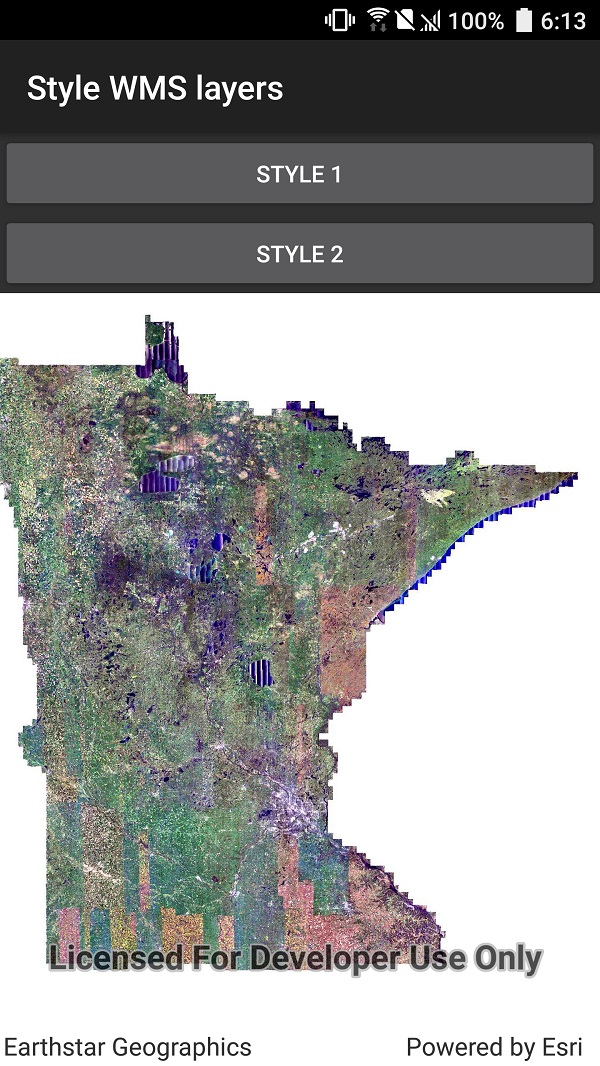
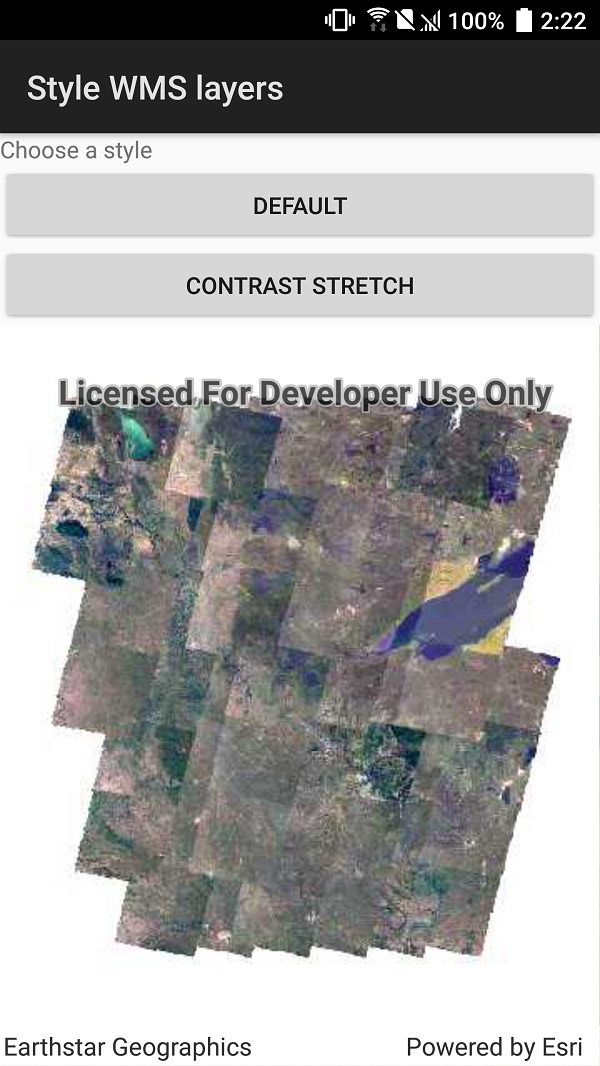
Update Style WMS layer to follow new design, use https

diff --git a/src/UWP/ArcGISRuntime.UWP.Viewer/Samples/Layers/StyleWmsLayer/StyleWmsLayer.xaml b/src/UWP/ArcGISRuntime.UWP.Viewer/Samples/Layers/StyleWmsLayer/StyleWmsLayer.xaml
@@ -21,12 +21,12 @@
                            HorizontalTextAlignment="Center" />
                 <Button x:Name="FirstStyleButton"
                         Grid.Row="1" Grid.Column="0"
-                        Content="Style 1" IsEnabled="False"
+                        Content="Default" IsEnabled="False"
                         HorizontalAlignment="Stretch" Margin="0,0,10,0"
                         Click="FirstStyleButton_Clicked"/>
                 <Button x:Name="SecondStyleButton"
                         Grid.Row="1" Grid.Column="1"
-                        Content="Style 2" IsEnabled="False"
+                        Content="Contrast stretch" IsEnabled="False"
                         HorizontalAlignment="Stretch" Margin="10,0,0,0"
                         Click="SecondStyleButton_Clicked"></Button>
             </Grid>

diff --git a/src/WPF/ArcGISRuntime.WPF.Viewer/Samples/Layers/StyleWmsLayer/StyleWmsLayer.xaml b/src/WPF/ArcGISRuntime.WPF.Viewer/Samples/Layers/StyleWmsLayer/StyleWmsLayer.xaml
@@ -22,13 +22,13 @@
                 <Button x:Name="FirstStyleButton"
                         Grid.Row="1" Grid.Column="0"
                         Margin="0,5,2.5,0"
-                        Content="Style 1"
+                        Content="Default"
                         IsEnabled="False"
                         Click="FirstStyleButton_Clicked" />
                 <Button x:Name="SecondStyleButton"
                         Grid.Row="1" Grid.Column="1"
                         Margin="2.5,5,0,0"
-                        Content="Style 2"
+                        Content="Contrast stretch"
                         IsEnabled="False"
                         Click="SecondStyleButton_Clicked" />
             </Grid>

diff --git a/src/Forms/Shared/Samples/Layers/StyleWmsLayer/StyleWmsLayer.xaml b/src/Forms/Shared/Samples/Layers/StyleWmsLayer/StyleWmsLayer.xaml
@@ -19,11 +19,11 @@
                 HorizontalTextAlignment="Center" />
         <Button x:Name="FirstStyleButton"
                 Grid.Row="1" Grid.Column="0"
-                Text="Style 1"
+                Text="Default"
                 Clicked="FirstStyleButton_Clicked" />
         <Button x:Name="SecondStyleButton"
                 Grid.Row="1" Grid.Column="1"
-                Text="Style 2"
+                Text="Contrast stretch"
                 Clicked="SecondStyleButton_Clicked" />
         <esriUI:MapView x:Name="MyMapView"
                         Grid.Row="2" Grid.Column="0" Grid.ColumnSpan="2" />

diff --git a/src/iOS/Xamarin.iOS/Samples/Layers/StyleWmsLayer/StyleWmsLayer.cs b/src/iOS/Xamarin.iOS/Samples/Layers/StyleWmsLayer/StyleWmsLayer.cs
@@ -30,10 +30,10 @@ namespace ArcGISRuntime.Samples.StyleWmsLayer
         private UISegmentedControl _styleChoiceButton;
 
         // Hold the URL to the service, which has satellite imagery covering the state of Minnesota.
-        private readonly Uri _wmsUrl = new Uri("http://geoint.lmic.state.mn.us/cgi-bin/wms?VERSION=1.3.0&SERVICE=WMS&REQUEST=GetCapabilities");
+        private readonly Uri _wmsUrl = new Uri("https://imageserver.gisdata.mn.gov/cgi-bin/mncomp?SERVICE=WMS&VERSION=1.3.0&REQUEST=GetCapabilities");
 
         // Hold a list of uniquely-identifying WMS layer names to display.
-        private readonly List<string> _wmsLayerNames = new List<string> {"fsa2017"};
+        private readonly List<string> _wmsLayerNames = new List<string> {"mncomp"};
 
         // Hold a reference to the layer to enable re-styling.
         private WmsLayer _mnWmsLayer;
@@ -49,7 +49,7 @@ namespace ArcGISRuntime.Samples.StyleWmsLayer
             _myMapView = new MapView();
             _myMapView.TranslatesAutoresizingMaskIntoConstraints = false;
 
-            _styleChoiceButton = new UISegmentedControl("First style", "Second style")
+            _styleChoiceButton = new UISegmentedControl("Default", "Contrast stretch")
             {
                 BackgroundColor = UIColor.FromWhiteAlpha(0, .7f),
                 TintColor = UIColor.White,

diff --git a/src/Android/Xamarin.Android/Samples/Layers/StyleWmsLayer/StyleWmsLayer.cs b/src/Android/Xamarin.Android/Samples/Layers/StyleWmsLayer/StyleWmsLayer.cs
@@ -27,10 +27,10 @@ namespace ArcGISRuntime.Samples.StyleWmsLayer
     public class StyleWmsLayer : Activity
     {
         // Hold the URL to the service, which has satellite imagery covering the state of Minnesota.
-        private Uri _wmsUrl = new Uri("http://geoint.lmic.state.mn.us/cgi-bin/wms?VERSION=1.3.0&SERVICE=WMS&REQUEST=GetCapabilities");
+        private Uri _wmsUrl = new Uri("https://imageserver.gisdata.mn.gov/cgi-bin/mncomp?SERVICE=WMS&VERSION=1.3.0&REQUEST=GetCapabilities");
 
         // Hold a list of uniquely-identifying WMS layer names to display.
-        private List<String> _wmsLayerNames = new List<string> { "fsa2017" };
+        private List<String> _wmsLayerNames = new List<string> { "mncomp" };
 
         // Hold a reference to the layer to enable re-styling.
         private WmsLayer _mnWmsLayer;
@@ -66,12 +66,12 @@ namespace ArcGISRuntime.Samples.StyleWmsLayer
             };
             _firstStyleButton = new Button(this)
             {
-                Text = "Style 1",
+                Text = "Default",
                 Enabled = false
             };
             _secondStyleButton = new Button(this)
             {
-                Text = "Style 2",
+                Text = "Contrast stretch",
                 Enabled = false
             };
 

diff --git a/src/UWP/ArcGISRuntime.UWP.Viewer/Samples/Layers/StyleWmsLayer/StyleWmsLayer.xaml.cs b/src/UWP/ArcGISRuntime.UWP.Viewer/Samples/Layers/StyleWmsLayer/StyleWmsLayer.xaml.cs
@@ -23,10 +23,10 @@ namespace ArcGISRuntime.UWP.Samples.StyleWmsLayer
     public partial class StyleWmsLayer
     {
         // Hold the URL to the service, which has satellite imagery covering the state of Minnesota. 
-        private Uri _wmsUrl = new Uri("http://geoint.lmic.state.mn.us/cgi-bin/wms?VERSION=1.3.0&SERVICE=WMS&REQUEST=GetCapabilities");
+        private Uri _wmsUrl = new Uri("https://imageserver.gisdata.mn.gov/cgi-bin/mncomp?SERVICE=WMS&VERSION=1.3.0&REQUEST=GetCapabilities");
 
         // Hold a list of uniquely-identifying WMS layer names to display.
-        private List<String> _wmsLayerNames = new List<string> { "fsa2017" };
+        private List<String> _wmsLayerNames = new List<string> { "mncomp" };
 
         // Hold a reference to the layer to enable re-styling.
         private WmsLayer _mnWmsLayer;

diff --git a/src/WPF/ArcGISRuntime.WPF.Viewer/Samples/Layers/StyleWmsLayer/StyleWmsLayer.xaml.cs b/src/WPF/ArcGISRuntime.WPF.Viewer/Samples/Layers/StyleWmsLayer/StyleWmsLayer.xaml.cs
@@ -22,10 +22,10 @@ namespace ArcGISRuntime.WPF.Samples.StyleWmsLayer
     public partial class StyleWmsLayer
     {
         // Hold the URL to the service, which has satellite imagery covering the state of Minnesota. 
-        private Uri _wmsUrl = new Uri("http://geoint.lmic.state.mn.us/cgi-bin/wms?VERSION=1.3.0&SERVICE=WMS&REQUEST=GetCapabilities");
+        private Uri _wmsUrl = new Uri("https://imageserver.gisdata.mn.gov/cgi-bin/mncomp?SERVICE=WMS&VERSION=1.3.0&REQUEST=GetCapabilities");
 
         // Hold a list of uniquely-identifying WMS layer names to display.
-        private List<String> _wmsLayerNames = new List<string> { "fsa2017" };
+        private List<String> _wmsLayerNames = new List<string> { "mncomp" };
 
         // Hold a reference to the layer to enable re-styling.
         private WmsLayer _mnWmsLayer;

diff --git a/src/Forms/Shared/Samples/Layers/StyleWmsLayer/StyleWmsLayer.xaml.cs b/src/Forms/Shared/Samples/Layers/StyleWmsLayer/StyleWmsLayer.xaml.cs
@@ -22,10 +22,10 @@ namespace ArcGISRuntime.Samples.StyleWmsLayer
     public partial class StyleWmsLayer
     {
         // Hold the URL to the service, which has satellite imagery covering the state of Minnesota. 
-        private Uri _wmsUrl = new Uri("http://geoint.lmic.state.mn.us/cgi-bin/wms?VERSION=1.3.0&SERVICE=WMS&REQUEST=GetCapabilities");
+        private Uri _wmsUrl = new Uri("https://imageserver.gisdata.mn.gov/cgi-bin/mncomp?SERVICE=WMS&VERSION=1.3.0&REQUEST=GetCapabilities");
 
         // Hold a list of uniquely-identifying WMS layer names to display.
-        private List<String> _wmsLayerNames = new List<string> { "fsa2017" };
+        private List<String> _wmsLayerNames = new List<string> { "mncomp" };
 
         // Hold a reference to the layer to enable re-styling.
         private WmsLayer _mnWmsLayer;

diff --git a/src/Android/Xamarin.Android/Samples/Layers/StyleWmsLayer/readme.md b/src/Android/Xamarin.Android/Samples/Layers/StyleWmsLayer/readme.md
@@ -1,9 +1,28 @@
 # Style WMS layers
 
-This sample demonstrates how to select from the available styles on WMS sublayers. 
+This sample demonstrates how to discover available styles and apply them to WMS sublayers.
 
-<img src="StyleWmsLayer.jpg" width="350"/>
+![](StyleWmsLayer.jpg)
 
-## Instructions
+## How to use the sample
 
-Click to select from one of the two pre-set styles.
+Use the buttons to switch between styles. 
+
+## How it works
+
+This sample examines the WMS layer's sublayers and checks the sublayer info for a list of available styles. The `CurrentStyle` is then set on the WMS sublayer.
+
+## Relevant API
+
+* `WmsSublayerInfo`
+* `WmsLayer.Sublayers`
+* `WmsSublayerInfo.Styles`
+* `WmsSublayer.CurrentStyle`
+
+## About the data
+
+This sample uses a public service managed by the State of Minnesota and provides composite imagery for the state and the surrounding areas.
+
+## Tags
+
+WMS, styles, imagery

diff --git a/src/Forms/Shared/Samples/Layers/StyleWmsLayer/readme.md b/src/Forms/Shared/Samples/Layers/StyleWmsLayer/readme.md
@@ -1,9 +1,28 @@
 # Style WMS layers
 
-This sample demonstrates how to select from the available styles on WMS sublayers. 
+This sample demonstrates how to discover available styles and apply them to WMS sublayers.
 
-<img src="StyleWmsLayer.jpg" width="350"/>
+![](StyleWmsLayer.jpg)
 
-## Instructions
+## How to use the sample
 
-Click to select from one of the two pre-set styles.
+Use the buttons to switch between styles. 
+
+## How it works
+
+This sample examines the WMS layer's sublayers and checks the sublayer info for a list of available styles. The `CurrentStyle` is then set on the WMS sublayer.
+
+## Relevant API
+
+* `WmsSublayerInfo`
+* `WmsLayer.Sublayers`
+* `WmsSublayerInfo.Styles`
+* `WmsSublayer.CurrentStyle`
+
+## About the data
+
+This sample uses a public service managed by the State of Minnesota and provides composite imagery for the state and the surrounding areas.
+
+## Tags
+
+WMS, styles, imagery

diff --git a/src/UWP/ArcGISRuntime.UWP.Viewer/Samples/Layers/StyleWmsLayer/readme.md b/src/UWP/ArcGISRuntime.UWP.Viewer/Samples/Layers/StyleWmsLayer/readme.md
@@ -1,9 +1,28 @@
 # Style WMS layers
 
-This sample demonstrates how to select from the available styles on WMS sublayers. 
+This sample demonstrates how to discover available styles and apply them to WMS sublayers.
 
-<img src="StyleWmsLayer.jpg" width="350"/>
+![](StyleWmsLayer.jpg)
 
-## Instructions
+## How to use the sample
 
-Click to select from one of the two pre-set styles.
+Use the buttons to switch between styles. 
+
+## How it works
+
+This sample examines the WMS layer's sublayers and checks the sublayer info for a list of available styles. The `CurrentStyle` is then set on the WMS sublayer.
+
+## Relevant API
+
+* `WmsSublayerInfo`
+* `WmsLayer.Sublayers`
+* `WmsSublayerInfo.Styles`
+* `WmsSublayer.CurrentStyle`
+
+## About the data
+
+This sample uses a public service managed by the State of Minnesota and provides composite imagery for the state and the surrounding areas.
+
+## Tags
+
+WMS, styles, imagery

diff --git a/src/WPF/ArcGISRuntime.WPF.Viewer/Samples/Layers/StyleWmsLayer/readme.md b/src/WPF/ArcGISRuntime.WPF.Viewer/Samples/Layers/StyleWmsLayer/readme.md
@@ -1,9 +1,28 @@
 # Style WMS layers
 
-This sample demonstrates how to select from the available styles on WMS sublayers. 
+This sample demonstrates how to discover available styles and apply them to WMS sublayers.
 
-<img src="StyleWmsLayer.jpg" width="350"/>
+![](StyleWmsLayer.jpg)
 
-## Instructions
+## How to use the sample
 
-Click to select from one of the two pre-set styles.
+Use the buttons to switch between styles. 
+
+## How it works
+
+This sample examines the WMS layer's sublayers and checks the sublayer info for a list of available styles. The `CurrentStyle` is then set on the WMS sublayer.
+
+## Relevant API
+
+* `WmsSublayerInfo`
+* `WmsLayer.Sublayers`
+* `WmsSublayerInfo.Styles`
+* `WmsSublayer.CurrentStyle`
+
+## About the data
+
+This sample uses a public service managed by the State of Minnesota and provides composite imagery for the state and the surrounding areas.
+
+## Tags
+
+WMS, styles, imagery
